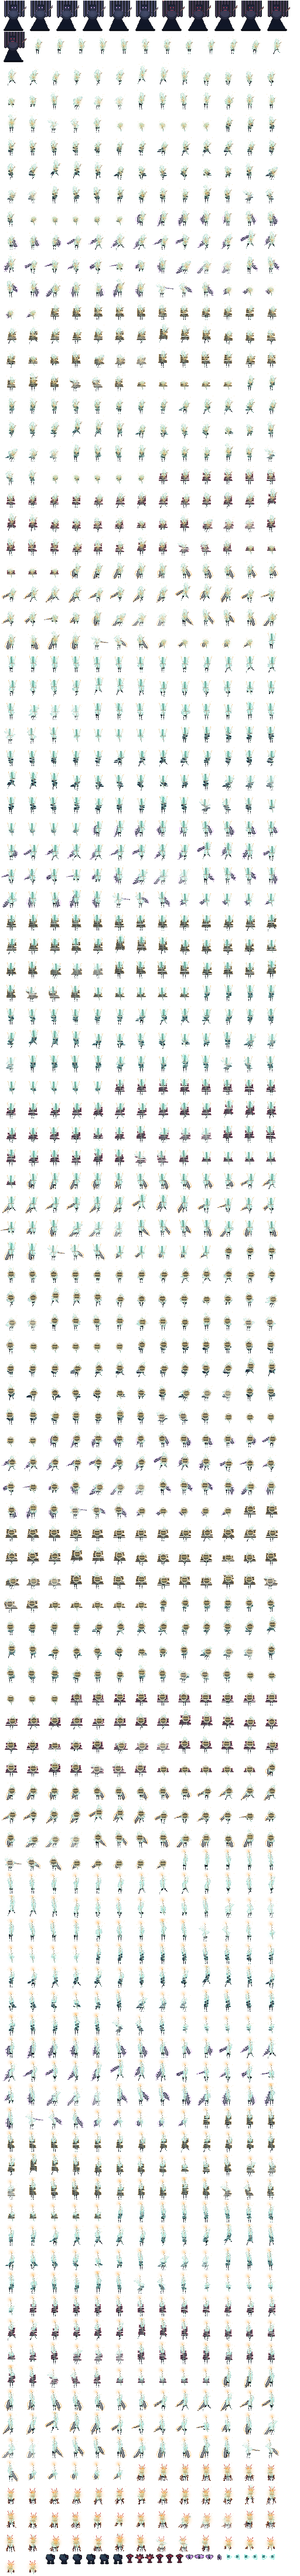
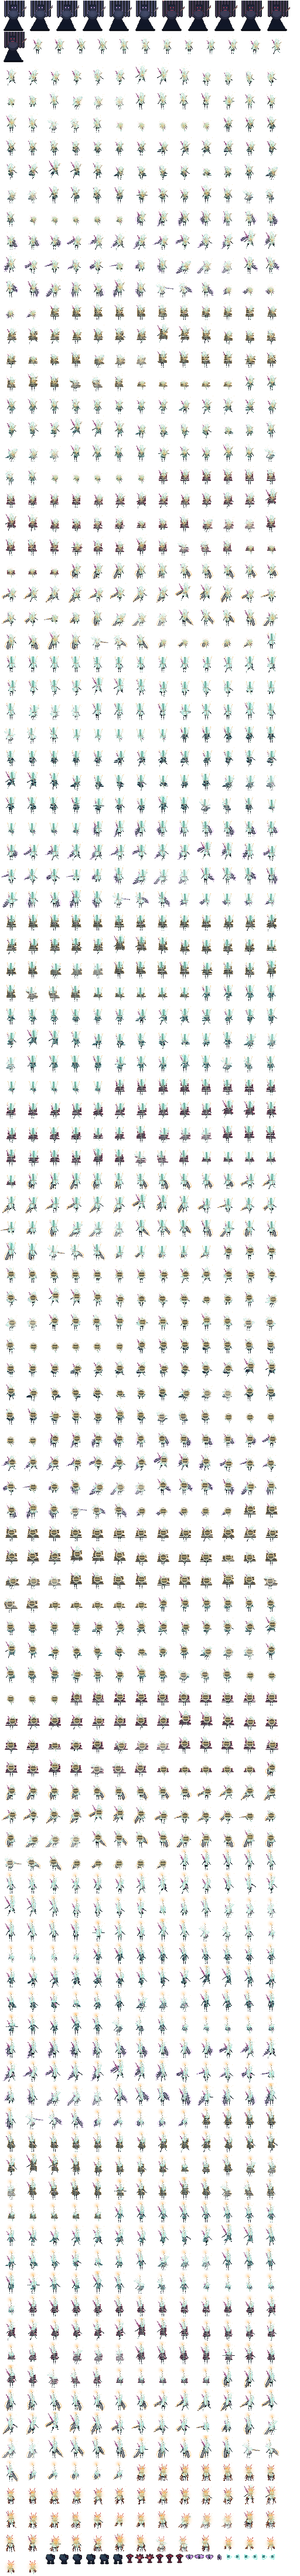
Ohne alles ist der Start - mit Armen und der Klinge auf dem Ruecken
"Ohne alles" ist keine Sonderansicht mehr, sondern der Ausgangszustand:
so wacht sie auf. Daraus folgt, dass der erste Fund im Spiel kein Schwert
ist, sondern etwas zum Anziehen - der schlichte Mantel liegt jetzt gleich
in A1.

Ohne Gefaess haelt sie weniger aus: vier Kristalle statt fuenf. Dafuer
haengt ihr nichts im Weg, sie laeuft und sprintet etwas weiter. Der Mantel
gibt genau den fuenften Kristall zurueck und sonst nichts - "er gibt ihr
nichts, er nimmt ihr nur das Vergehen" ist damit woertlich wahr. Alles
andere wird von diesem Punkt aus gemessen.

Dazu zwei Ergaenzungen an der Gestalt:

  Arme. Dieselbe Regel wie unten - kein Oberarm, kein Ellbogen, keine
  Hand, sondern zwei duenne Nadeln, die aus der Flamme wachsen. Im Lauf
  pendeln sie gegenlaeufig zu den Beinen, beim Schlag reisst es sie nach
  vorn.

  Die Klinge auf dem Ruecken. Sie ist das einzige Rosa an ihr, und das mit
  Absicht: alles andere ist kalt und blass, also traegt genau ein
  Gegenstand die Gegenfarbe. Man sieht schon an der Silhouette, dass sie
  bewaffnet ist. Kristall, nicht Metall - gewachsen wie die Spitzen, auf
  denen sie geht.

  Der erste Anlauf legte Klinge und Stimmgabel in dieselbe Richtung; beide
  kreuzten sich zu einem Gestruepp. Jetzt zeigt die Gabel nach oben rechts
  und die Klinge nach oben links, und beides bleibt lesbar.

1426 Frames, 78 Tests gruen, alle Raeume erreichbar.

Claude-Session: https://claude.ai/code/session_01C5Hnci6a37xBV4pyPzPzMs

diff --git a/Tests/ResonanzCoreTests/EquipmentTests.swift b/Tests/ResonanzCoreTests/EquipmentTests.swift
@@ -39,12 +39,12 @@ final class EquipmentTests: XCTestCase {
         XCTAssertEqual(s.ranged.damage, Tuning.ranged(.stimmgabel).damage)
     }
 
-    func testOhneGueltigeFassungTraegtSieDenMantel() {
+    func testOhneGueltigeFassungStehtSieDaWieSieAufgewachtIst() {
         var progression = Progression()
-        XCTAssertEqual(progression.equipment.id, EquipmentCatalog.mantel.id)
+        XCTAssertEqual(progression.equipment.id, EquipmentCatalog.ohne.id,
+                       "So faengt das Spiel an")
         progression.equipmentWorn = "gibt_es_nicht"
-        XCTAssertEqual(progression.equipment.id, EquipmentCatalog.mantel.id,
-                       "Ganz ohne Gefaess wuerde sie sich aufloesen")
+        XCTAssertEqual(progression.equipment.id, EquipmentCatalog.ohne.id)
         progression.klingeWorn = "gibt_es_nicht"
         XCTAssertEqual(progression.klinge.id, KlingenKatalog.schlicht.id)
     }
@@ -200,7 +200,9 @@ final class EquipmentTests: XCTestCase {
                 // Der teuerste tragbare Satz Siegel.
                 let s = Stats(equipment: equipment, kern: kern,
                               siegel: [SiegelKatalog.windschliff])
-                XCTAssertGreaterThan(equipment.openings, 0, equipment.id)
+                // Null Oeffnungen hat genau eine: "ohne". Das ist kein
+                // geschlossenes Gefaess, sondern gar keines.
+                XCTAssertGreaterThanOrEqual(equipment.openings, 0, equipment.id)
                 XCTAssertGreaterThan(s.runSpeed, 0, equipment.id)
                 XCTAssertLessThan(s.jumpVelocity, 0, equipment.id)
                 XCTAssertGreaterThanOrEqual(s.maxHealth(crystals: 5), 1, equipment.id)
@@ -259,7 +261,7 @@ final class EquipmentTests: XCTestCase {
 
         XCTAssertFalse(sim.wear(EquipmentCatalog.engeFassung.id),
                        "Mitten im Raum ist das kein Kleiderwechsel, sondern ein Umbau")
-        XCTAssertEqual(sim.save.progression.equipmentWorn, EquipmentCatalog.mantel.id)
+        XCTAssertEqual(sim.save.progression.equipmentWorn, EquipmentCatalog.ohne.id)
 
         sim.player.beginRest()
         XCTAssertTrue(sim.wear(EquipmentCatalog.engeFassung.id))
@@ -274,7 +276,7 @@ final class EquipmentTests: XCTestCase {
         sim.player.beginRest()
         XCTAssertFalse(sim.wear(EquipmentCatalog.schlagfassung.id))
         XCTAssertFalse(sim.wear("gibt_es_nicht"))
-        XCTAssertEqual(sim.save.progression.equipmentWorn, EquipmentCatalog.mantel.id)
+        XCTAssertEqual(sim.save.progression.equipmentWorn, EquipmentCatalog.ohne.id)
     }
 
     // MARK: - In der Welt
@@ -289,12 +291,12 @@ final class EquipmentTests: XCTestCase {
                 gefunden[pickup.id, default: 0] += 1
             }
         }
-        for equipment in EquipmentCatalog.all where equipment.id != EquipmentCatalog.mantel.id {
+        for equipment in EquipmentCatalog.all where equipment.id != EquipmentCatalog.ohne.id {
             XCTAssertEqual(gefunden[equipment.id], 1,
                            "\(equipment.id) muss genau einmal in der Welt liegen")
         }
-        XCTAssertNil(gefunden[EquipmentCatalog.mantel.id],
-                     "Den Mantel traegt sie von Anfang an")
+        XCTAssertNil(gefunden[EquipmentCatalog.ohne.id],
+                     "Ohne alles faengt sie an - das liegt nirgends herum")
     }
 
     func testJedesSiegelUndJedeKlingeLiegenGenauEinmalInDerWelt() throws {

diff --git a/Tests/ResonanzCoreTests/HealthTests.swift b/Tests/ResonanzCoreTests/HealthTests.swift
@@ -9,13 +9,22 @@ final class HealthTests: XCTestCase {
         try GameSimulation.newGame(catalog: try WorldCatalog())
     }
 
-    func testFuenfKristalleSindZehnHaelften() throws {
+    /// Sie faengt ohne alles an, und ohne Gefaess haelt sie weniger aus:
+    /// vier Kristalle statt fuenf. Der schlichte Mantel gibt den fuenften
+    /// zurueck - das ist der erste Fund im Spiel und der Grund, warum er
+    /// sich sofort anfuehlt.
+    func testSieStartetMitVierKristallen() throws {
         let sim = try spiel()
-        XCTAssertEqual(sim.save.progression.crystals, 5)
-        XCTAssertEqual(sim.player.maxHealth, 10)
-        XCTAssertEqual(sim.player.health, 10)
-        XCTAssertEqual(sim.player.crystalsFull, 5)
+        XCTAssertEqual(sim.save.progression.crystals, 5, "Der Grundwert bleibt fuenf")
+        XCTAssertEqual(sim.player.maxHealth, 8, "Ohne Fassung sind es acht Haelften")
+        XCTAssertEqual(sim.player.crystalsFull, 4)
         XCTAssertFalse(sim.player.hasHalfCrystal)
+
+        var save = SaveState()
+        save.progression.equipmentOwned.insert(EquipmentCatalog.mantel.id)
+        save.progression.equipmentWorn = EquipmentCatalog.mantel.id
+        let mitMantel = try GameSimulation(catalog: try WorldCatalog(), save: save)
+        XCTAssertEqual(mitMantel.player.maxHealth, 10, "Mit Mantel wieder fuenf Kristalle")
     }
 
     func testAnderthalbSchadenLaesstEinenHalbenKristallStehen() throws {
@@ -23,8 +32,8 @@ final class HealthTests: XCTestCase {
         var events: [GameEvent] = []
         sim.player.takeDamage(3, from: Vec2(0, 0), events: &events)
 
-        XCTAssertEqual(sim.player.health, 7, "Zehn minus drei Haelften")
-        XCTAssertEqual(sim.player.crystalsFull, 3)
+        XCTAssertEqual(sim.player.health, 5, "Acht minus drei Haelften")
+        XCTAssertEqual(sim.player.crystalsFull, 2)
         XCTAssertTrue(sim.player.hasHalfCrystal, "Ein halber haengt noch dran")
     }
 
@@ -33,7 +42,7 @@ final class HealthTests: XCTestCase {
     func testAufEinemHalbenKristallUeberlebtSieNichts() throws {
         let sim = try spiel()
         var events: [GameEvent] = []
-        sim.player.takeDamage(9, from: Vec2(0, 0), events: &events)
+        sim.player.takeDamage(7, from: Vec2(0, 0), events: &events)
         XCTAssertEqual(sim.player.health, 1)
         XCTAssertFalse(sim.player.isDead)
 
@@ -50,7 +59,7 @@ final class HealthTests: XCTestCase {
         let sim = try spiel()
         var events: [GameEvent] = []
         sim.player.takeDamage(Tuning.spikeDamage, from: Vec2(0, 0), events: &events)
-        XCTAssertEqual(sim.player.crystalsFull, 4)
+        XCTAssertEqual(sim.player.crystalsFull, 3)
         XCTAssertFalse(sim.player.hasHalfCrystal)
     }
 
@@ -86,7 +95,7 @@ final class HealthTests: XCTestCase {
         let sim = try spiel()
         var events: [GameEvent] = []
         sim.player.takeDamage(5, from: Vec2(0, 0), events: &events)
-        XCTAssertEqual(sim.player.health, 5)
+        XCTAssertEqual(sim.player.health, 3)
         sim.player.restore()
         XCTAssertEqual(sim.player.health, sim.player.maxHealth)
     }

diff --git a/Sources/ResonanzCore/Progress/Equipment.swift b/Sources/ResonanzCore/Progress/Equipment.swift
@@ -94,7 +94,24 @@ public struct Equipment: Codable, Sendable, Equatable, Identifiable {
 /// Alle Fassungen, die es gibt.
 public enum EquipmentCatalog {
 
-    /// Die Standardausruestung. Sie tut nichts, ausser sie zusammenzuhalten -
+    /// So faengt sie an: ohne alles.
+    ///
+    /// Kein Gefaess, also nichts, was sie zusammenhaelt - sie traegt einen
+    /// Kristall weniger als mit dem schlichten Mantel. Dafuer haengt ihr
+    /// auch nichts im Weg. Das ist der Ausgangspunkt, an dem alles andere
+    /// gemessen wird, und der Grund, warum der erste Fund im Spiel kein
+    /// Schwert ist, sondern etwas zum Anziehen.
+    public static let ohne = Equipment(
+        id: "ohne",
+        name: "OHNE ALLES",
+        openings: 0,
+        stil: .bogen,
+        summary: "NICHTS HAELT SIE - DAFUER HAENGT IHR AUCH NICHTS IM WEG",
+        flavour: "SO IST SIE AUFGEWACHT. EIN KLANG, EINE STIMMGABEL, "
+               + "ZWEI SPITZEN, AUF DENEN SIE STEHT.",
+        modifiers: Modifiers(moveSpeed: 1.06, dashDistance: 1.05, cohesion: 0.8))
+
+    /// Das erste Fundstueck. Er tut nichts, ausser sie zusammenzuhalten -
     /// und genau das ist ihr Zweck.
     public static let mantel = Equipment(
         id: "mantel",
@@ -171,7 +188,7 @@ public enum EquipmentCatalog {
                              meleeReach: 0.9, cohesion: 0.9))
 
     public static let all: [Equipment] = [
-        mantel, cape, engeFassung, offeneFassung, schlagfassung, gerissenesGewand,
+        ohne, mantel, cape, engeFassung, offeneFassung, schlagfassung, gerissenesGewand,
     ]
 
     public static func find(_ id: String) -> Equipment? {

diff --git a/Sources/ResonanzCore/Progress/Abilities.swift b/Sources/ResonanzCore/Progress/Abilities.swift
@@ -77,8 +77,8 @@ public struct Progression: Codable, Sendable, Equatable {
                 crystals: Int = 5,
                 maxResonance: Double = 100,
                 readLore: Set<String> = [],
-                equipmentOwned: Set<String> = [EquipmentCatalog.mantel.id],
-                equipmentWorn: String = EquipmentCatalog.mantel.id,
+                equipmentOwned: Set<String> = [EquipmentCatalog.ohne.id],
+                equipmentWorn: String = EquipmentCatalog.ohne.id,
                 klingenOwned: Set<String> = [KlingenKatalog.schlicht.id],
                 klingeWorn: String = KlingenKatalog.schlicht.id,
                 siegelOwned: Set<String> = [],
@@ -101,15 +101,15 @@ public struct Progression: Codable, Sendable, Equatable {
         self.gebrochen = gebrochen
     }
 
-    /// Die getragene Fassung. Ohne eine gueltige faellt sie auf den Mantel
-    /// zurueck - ganz ohne Gefaess wuerde sich Cadence aufloesen.
+    /// Die getragene Fassung. Ohne eine gueltige steht sie da, wie sie
+    /// aufgewacht ist: ohne alles.
     public var equipment: Equipment {
         // Nach dem Bruch traegt sie nichts mehr. Es gibt kein Zurueck in
         // die Fassung - das ist der Punkt des Ereignisses.
         if gebrochen { return Bruch.entfesselt }
         guard equipmentOwned.contains(equipmentWorn),
               let found = EquipmentCatalog.find(equipmentWorn) else {
-            return EquipmentCatalog.mantel
+            return EquipmentCatalog.ohne
         }
         return found
     }

diff --git a/Tools/gen_characters.py b/Tools/gen_characters.py
@@ -152,6 +152,106 @@ def _garment_slits(openings: int) -> list[tuple[float, int, float]]:
 # frei heraus. So sitzt er *in* ihr und nicht *auf* ihr - egal welcher.
 
 
+
+def _draw_arme(c: Canvas, *, cx: int, base: float, height: float, phase: float,
+               lean: float, leg_phase: float | None, arm_front: float,
+               arm_back: float, whip: float, smear: float) -> None:
+    """
+    Zwei Spitzen als Arme.
+
+    Dieselbe Regel wie unten: kein Oberarm, kein Ellbogen, keine Hand -
+    zwei duenne Nadeln, die aus der Flamme herauswachsen und spitz enden.
+    Der vordere greift, der hintere zieht nach; im Lauf pendeln sie
+    gegenlaeufig zu den Beinen, sonst haengen sie fast still.
+    """
+    S = HERO_SCALE
+    schulter_t = 0.56
+    sy = base - schulter_t * height
+    laenge = height * 0.30
+
+    schritt = (leg_phase or 0.0) + math.pi
+    ader = mix(P.TRIM, P.BONE, 0.55)
+    schale = mix(P.CLOAK, P.STONE, 0.22)
+
+    for seite in (-1, 1):
+        vorn = seite > 0
+        takt = math.sin(schritt + (0 if vorn else math.pi))
+        # Ruhe: leicht nach hinten unten. Schlag: nach vorn gerissen.
+        winkel = (0.95 - takt * 0.38
+                  - (arm_front if vorn else arm_back) * 1.3
+                  - whip * 0.9)
+        sx = cx + seite * (1.4 * S) + lean * 0.6
+
+        n = max(3, int(laenge))
+        for i in range(n + 1):
+            v = i / n
+            x = sx + seite * math.cos(winkel) * laenge * v - smear * 2.4 * v
+            y = sy + math.sin(winkel) * laenge * v
+            w = 1.2 - 1.15 * v ** 0.6
+            for dx in range(-int(w) - 1, int(w) + 2):
+                if abs(dx) > w + 0.35:
+                    continue
+                col = (mix(schale, ader, 0.45 - 0.22 * v) if dx * seite > 0
+                       else shade(schale, -0.28))
+                c.set(int(x) + dx, int(y), col)
+        c.set(int(sx + seite * math.cos(winkel) * laenge),
+              int(sy + math.sin(winkel) * laenge), mix(schale, ader, 0.35))
+
+
+def _draw_klinge(c: Canvas, *, cx: int, base: float, height: float, phase: float,
+                 lean: float, sway: float) -> None:
+    """
+    Die Schallklinge auf ihrem Ruecken.
+
+    Sie ist das einzige Rosa an ihr - und das mit Absicht: alles andere ist
+    kalt und blass, also traegt genau ein Gegenstand die Gegenfarbe, und
+    man sieht schon an der Silhouette, dass sie bewaffnet ist. Kristall,
+    nicht Metall: die Klinge ist gewachsen wie die Nadeln, an denen sie
+    geht.
+    """
+    S = HERO_SCALE
+    rosa = hexc("#ff7ad0")
+    rosa_hi = mix(rosa, P.BONE, 0.55)
+    rosa_lo = mix(rosa, P.CLOAK, 0.55)
+
+    # Schraeg ueber den Ruecken: Griff unten rechts, Spitze oben links.
+    # Die Stimmgabel steht nach oben rechts - die Klinge muss in die
+    # Gegenrichtung, sonst kreuzen sich beide zu einem Gestruepp.
+    a = -(math.pi - 1.00)
+    mx = cx + 0.8 * S + lean * 0.3
+    my = base - 0.42 * height
+    ax, ay = math.cos(a), math.sin(a)
+    laenge = height * 0.62
+
+    # Griff und Parierstueck
+    for i in range(int(3 * S)):
+        c.set(int(mx - ax * (i + 2)), int(my - ay * (i + 2)), mix(rosa_lo, P.CLOAK, 0.4))
+    for k in (-1, 1):
+        c.set(int(mx - ax * 1.5 - ay * k), int(my - ay * 1.5 + ax * k), rosa_lo)
+
+    # Das Blatt: zum Ende hin schmaler, mit heller Schneide vorn.
+    for i in range(int(laenge)):
+        v = i / laenge
+        w = (1.9 - 1.5 * v ** 0.8) * S
+        px = mx + ax * i
+        py = my + ay * i
+        for dq in range(-int(w), int(w) + 1):
+            qx = px - ay * dq
+            qy = py + ax * dq
+            if dq > 0:
+                col = rosa_hi if dq >= int(w) else rosa
+            else:
+                col = rosa_lo
+            c.set(int(qx), int(qy), col)
+        # Ein Glanz laeuft die Schneide hinauf.
+        if abs(v - (0.5 + 0.5 * math.sin(phase * 1.4 + sway))) < 0.10:
+            c.set(int(px - ay * w), int(py + ax * w), mix(rosa_hi, P.BONE, 0.6))
+
+    c.set(int(mx + ax * laenge), int(my + ay * laenge), mix(rosa_hi, P.BONE, 0.4))
+    c.glow(mx + ax * laenge * 0.6, my + ay * laenge * 0.6, 6 * S,
+           (rosa[0], rosa[1], rosa[2], 40))
+
+
 def _draw_beine(c: Canvas, *, cx: int, base: float, height: float, phase: float,
                 lean: float, leg_phase: float | None, leg_spread: float,
                 crouch: float, settle: float, smear: float) -> None:
@@ -629,6 +729,10 @@ def draw_heroine(
                       height=height, phase=phase, lean=lean, smear=smear,
                       split=split, sway=sway, hinter=True)
 
+    # Die Klinge liegt auf ihrem Ruecken, also hinter allem anderen.
+    _draw_klinge(c, cx=cx, base=base, height=height, phase=phase,
+                 lean=lean, sway=sway)
+
     # --- Die Beine --------------------------------------------------------
     #
     # Unten ist sie nicht formlos. Der Klang hat sich dort zu Kristall
@@ -638,6 +742,10 @@ def draw_heroine(
     _draw_beine(c, cx=cx, base=base, height=height, phase=phase, lean=lean,
                 leg_phase=leg_phase, leg_spread=leg_spread, crouch=crouch,
                 settle=settle, smear=smear)
+
+    _draw_arme(c, cx=cx, base=base, height=height, phase=phase, lean=lean,
+               leg_phase=leg_phase, arm_front=arm_front, arm_back=arm_back,
+               whip=whip, smear=smear)
 
     # Der Mantel ist die Grundform, nicht die Verzierung: er wird zuerst
     # gesetzt, geschlossen und undurchsichtig. Die Flamme sitzt darauf.

diff --git a/Tools/gen_levels.py b/Tools/gen_levels.py
@@ -421,6 +421,9 @@ def room_A1() -> Room:
     # Der erste Fund ueberhaupt: ein zweiter Kern. Er liegt in der Mulde,
     # also sichtbar, aber unterhalb des Weges - man muss hinunter.
     r.pickup("kern", "leier", 30, 18)
+    # Das erste Fundstueck des Spiels ist kein Schwert, sondern etwas zum
+    # Anziehen: ohne Gefaess zerstreut sie sich.
+    r.pickup("equipment", "mantel", 15, 14)
 
     r.enemy("klangmotte", 30, 10)
     r.enemy("klangmotte", 48, 7)

diff --git a/docs/ENTWURF.md b/docs/ENTWURF.md
@@ -82,12 +82,37 @@ solange die Bilder aus einem Programm fallen und nicht aus einer Hand:
 ein neuer Kern kostet einen `elif`-Zweig und einen Durchlauf des
 Generators, nicht einen Tag Zeichnen.
 
-### Sie ohne alles
+### Sie ohne alles — und so fängt das Spiel an
 
-Eine Bildreihe fällt aus dem Schema: **`ohne`** — sie selbst, ohne Fassung,
-nur Nadeln, Flamme und der Kern, der gerade in ihr steckt. Das ist der
-Bogen fürs Inventar: dort soll man sehen, wie weit sie schon ist, und was
-von ihr selbst kommt statt von dem, was sie trägt.
+**`ohne`** ist keine Sonderansicht, sondern der Ausgangszustand: so wacht
+sie auf. Ein Klang, eine Stimmgabel, zwei Spitzen zum Stehen, zwei Spitzen
+als Arme, und die Schallklinge auf dem Rücken.
+
+Daraus folgt zweierlei:
+
+- **Der erste Fund im Spiel ist kein Schwert, sondern etwas zum Anziehen.**
+  Der schlichte Mantel liegt gleich in A1. Ohne Gefäß hält sie weniger aus
+  — vier Kristalle statt fünf —, dafür hängt ihr nichts im Weg (etwas
+  schneller, etwas weiter im Sprint). Der Mantel gibt genau den fünften
+  Kristall zurück und sonst nichts. „Er gibt ihr nichts, er nimmt ihr nur
+  das Vergehen" ist damit wörtlich wahr.
+- **Alles wird von hier aus gemessen.** `ohne` ist die Grundlinie, an der
+  jede Fassung sich rechtfertigen muss.
+
+Im Inventar steht dieselbe Reihe: dort sieht man sie ohne alles und damit,
+was von ihr selbst kommt und was von dem, was sie trägt.
+
+### Die Klinge auf dem Rücken
+
+Sie ist das einzige Rosa an ihr — und das mit Absicht. Alles andere ist
+kalt und blass, also trägt genau ein Gegenstand die Gegenfarbe, und man
+sieht schon an der Silhouette, dass sie bewaffnet ist. Kristall, nicht
+Metall: die Klinge ist gewachsen wie die Spitzen, auf denen sie geht.
+
+Sie liegt schräg über dem Rücken, Griff unten rechts, Spitze oben links —
+**entgegen** der Stimmgabel, die nach oben rechts steht. Der erste Versuch
+legte beide in dieselbe Richtung, und sie kreuzten sich zu einem Gestrüpp.
+Jetzt bilden sie ein X, und beides bleibt lesbar.
 Der Grund scheint durch sie hindurch — dicht in der Mitte, dünner zum Rand
 und nach oben. Die Silhouette trägt trotzdem, weil der Mantel deckt: das
 Durchscheinende ist der Körper, nicht die Kleidung. Kein
